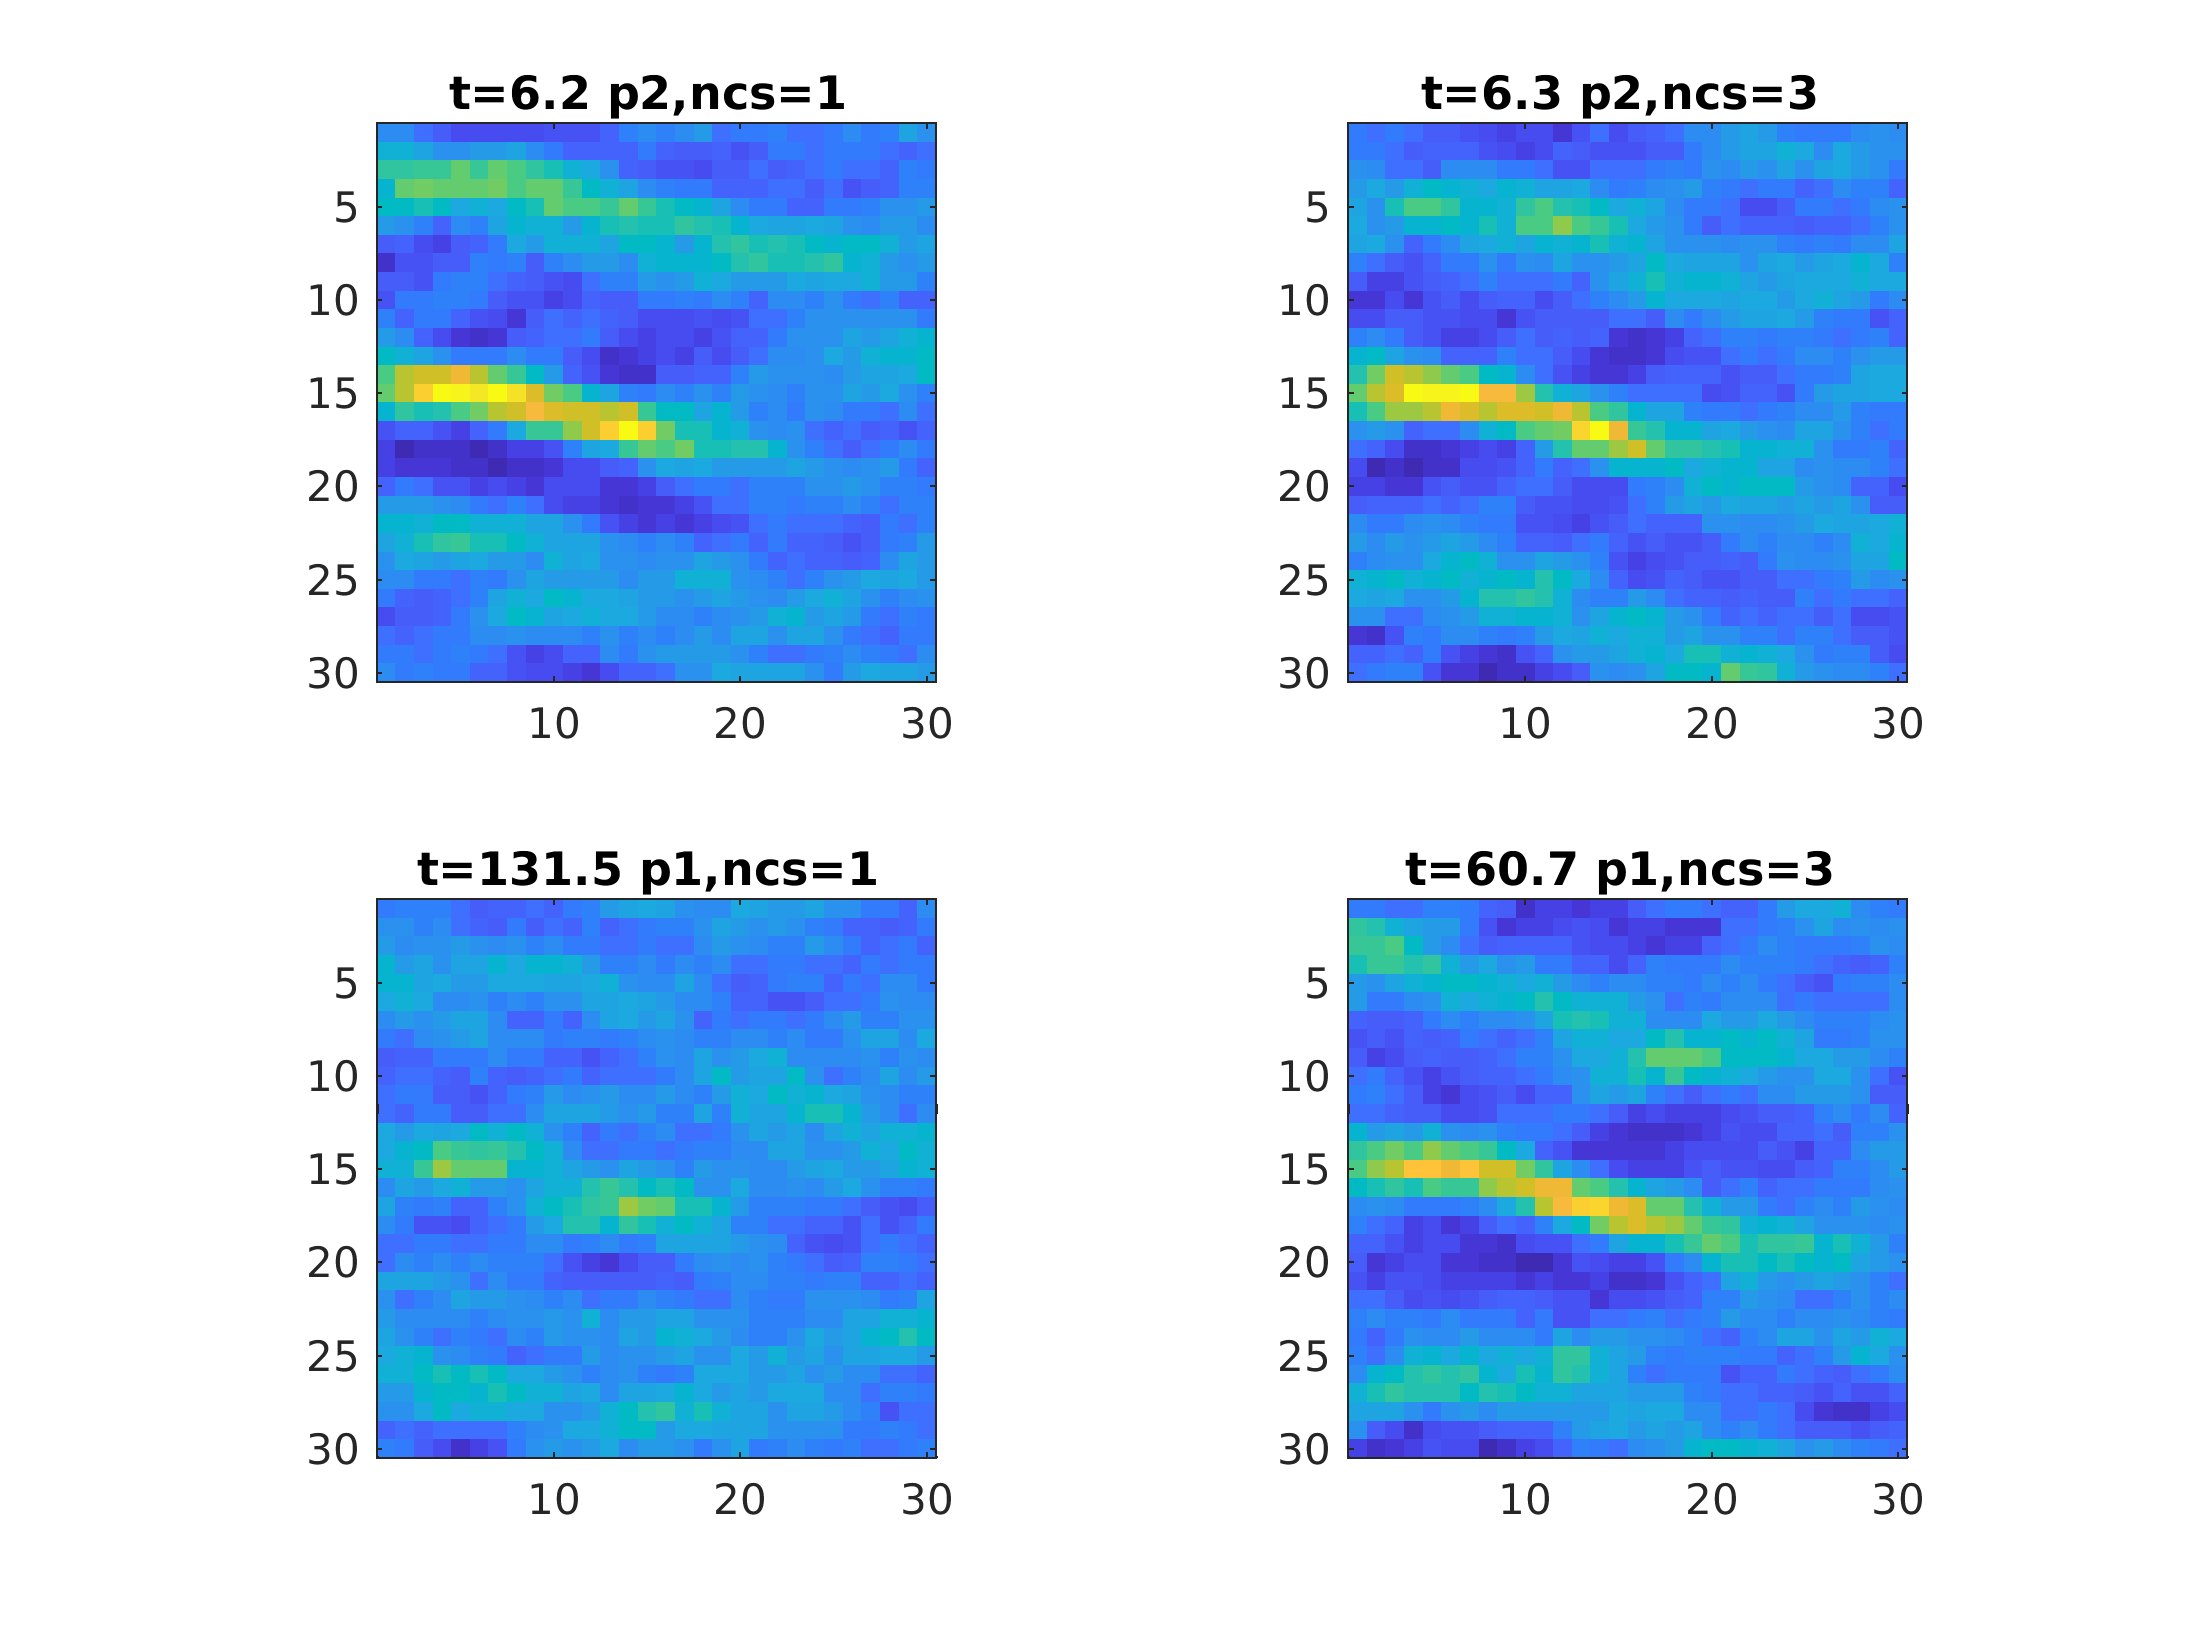
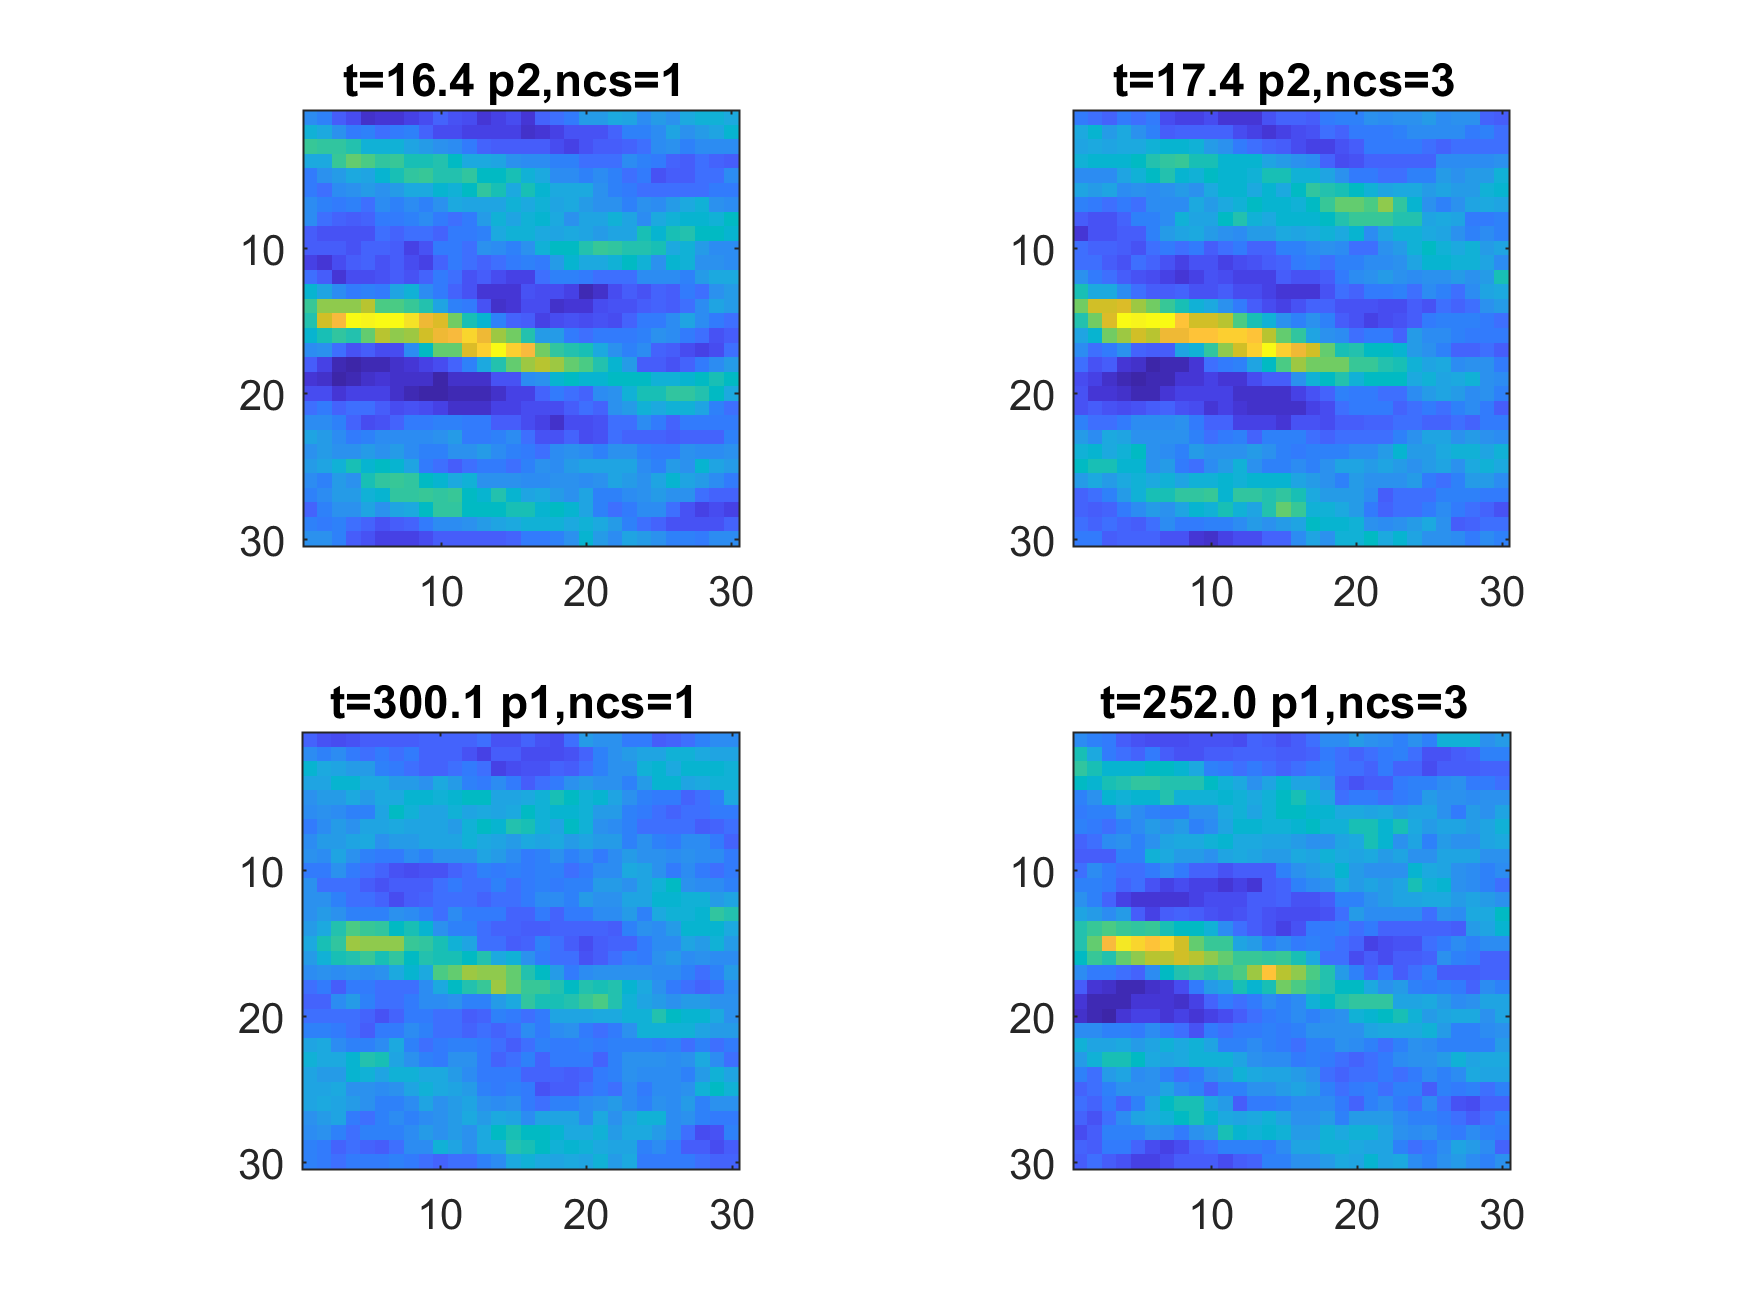
nonco update

diff --git a/mpslib/ENESIM.cpp b/mpslib/ENESIM.cpp
@@ -1124,6 +1124,8 @@ float MPS::ENESIM::_getRealizationFromCpdfTiEnesimRejectionNonCo(const int& sgId
 	float randomValue;
 	float pAcc;
 	float SoftProbability;
+	float pAccOpt = 1e-9;
+	float simulatedValueOpt;
 
 
 	if (_nMaxCountCpdf == 1) {
@@ -1137,7 +1139,7 @@ float MPS::ENESIM::_getRealizationFromCpdfTiEnesimRejectionNonCo(const int& sgId
 		do {
 			// MAKE SURE THAT conditionalPdfFromTi IS OBTAINED INDEPENDENTLTY EACH TIME!!!
 			// ESPECIELLY WHEN BASED ON ONLY ONE COUNT
-
+			
 			// obtain conditional and generate a realization wihtout soft data
 			conditionalPdfFromTi.clear();
 			SoftProbability = 1;
@@ -1146,12 +1148,26 @@ float MPS::ENESIM::_getRealizationFromCpdfTiEnesimRejectionNonCo(const int& sgId
 			simulatedValue = _sampleFromPdf(conditionalPdfFromTi);
 			randomValue = ((float)rand() / (RAND_MAX));
 			pAcc = SoftProbability;
+				
+			// Make sure to initialize optimal values
+			if (i == 0) {
+				pAccOpt = pAcc;
+				simulatedValueOpt = simulatedValue;
+			}
 
+			// Store the most probable so far
+			if (pAcc > pAccOpt) {
+				simulatedValueOpt = simulatedValue;
+				pAccOpt = pAcc;
+			}
+			
 			if (_debugMode > 2) {
 				std::cout << "  i= " << i << " maxIterations=" << maxIterations;
 				std::cout << "   p_ti = [" << conditionalPdfFromTi[0] << "," << conditionalPdfFromTi[1] << "]";
 				std::cout << " simval = " << simulatedValue;
-				std::cout << "   pAcc =p_soft=" << SoftProbability << std::endl;
+				std::cout << "   pAcc =p_soft=" << SoftProbability;
+				std::cout << " simvalOpt = " << simulatedValueOpt;
+				std::cout << "   pAccOpt=" << pAccOpt << std::endl;
 			}
 
 			// accept simulatedValue with probabilty from soft data
@@ -1165,6 +1181,7 @@ float MPS::ENESIM::_getRealizationFromCpdfTiEnesimRejectionNonCo(const int& sgId
 			i++;
 
 		} while ((i<maxIterations)&(!isAccepted));
+		simulatedValue = simulatedValueOpt;
 
 	}
 	else {

diff --git a/examples/soft_as_hard/ex_hard_as_soft.m b/examples/soft_as_hard/ex_hard_as_soft.m
@@ -9,11 +9,11 @@ O.hard_data_filename='dummy';
 O.soft_data_filename='dummy';
 O.soft_data_filename='soft_as_softhard.dat';
 O.n_max_ite=100000;
-O.n_max_cpdf_count=10;
+O.n_max_cpdf_count=1;
 O.max_search_radius=[10000 10000];
 
 O.debug=1;
-O.n_real=40;
+O.n_real=400;
 O.clean = 1;
 %O.exe_root = 'E:\Users\tmh\RESEARCH\PROGRAMMING\GITHUB\MPSLIB\msvc2017\x64\Release';
 
@@ -35,7 +35,7 @@ for i=1:length(Oo)
     caxis([0 1]);
     title(sprintf('t=%3.1f p%d,ncs=%d ',Oo{i}.time,Oo{i}.shuffle_simulation_grid,Oo{i}.n_cond(2)))
 end
-print_mul(sprintf('%s_nMaxCpdf%03d','ex_hard_as_soft',O.n_max_cpdf_count))
+print_mul(sprintf('%s_nMaxCpdf%03d_B','ex_hard_as_soft',O.n_max_cpdf_count))
 
 
 %%
